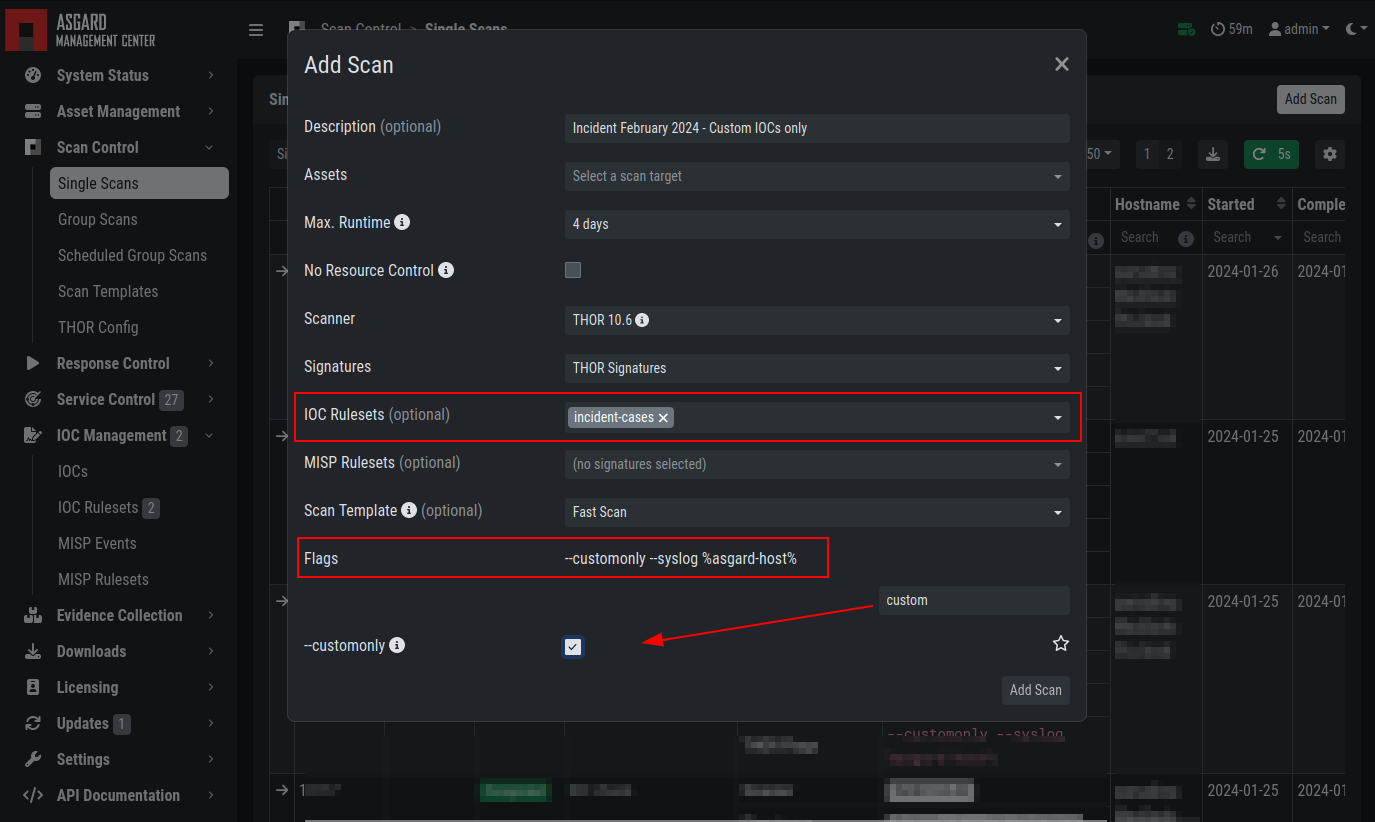
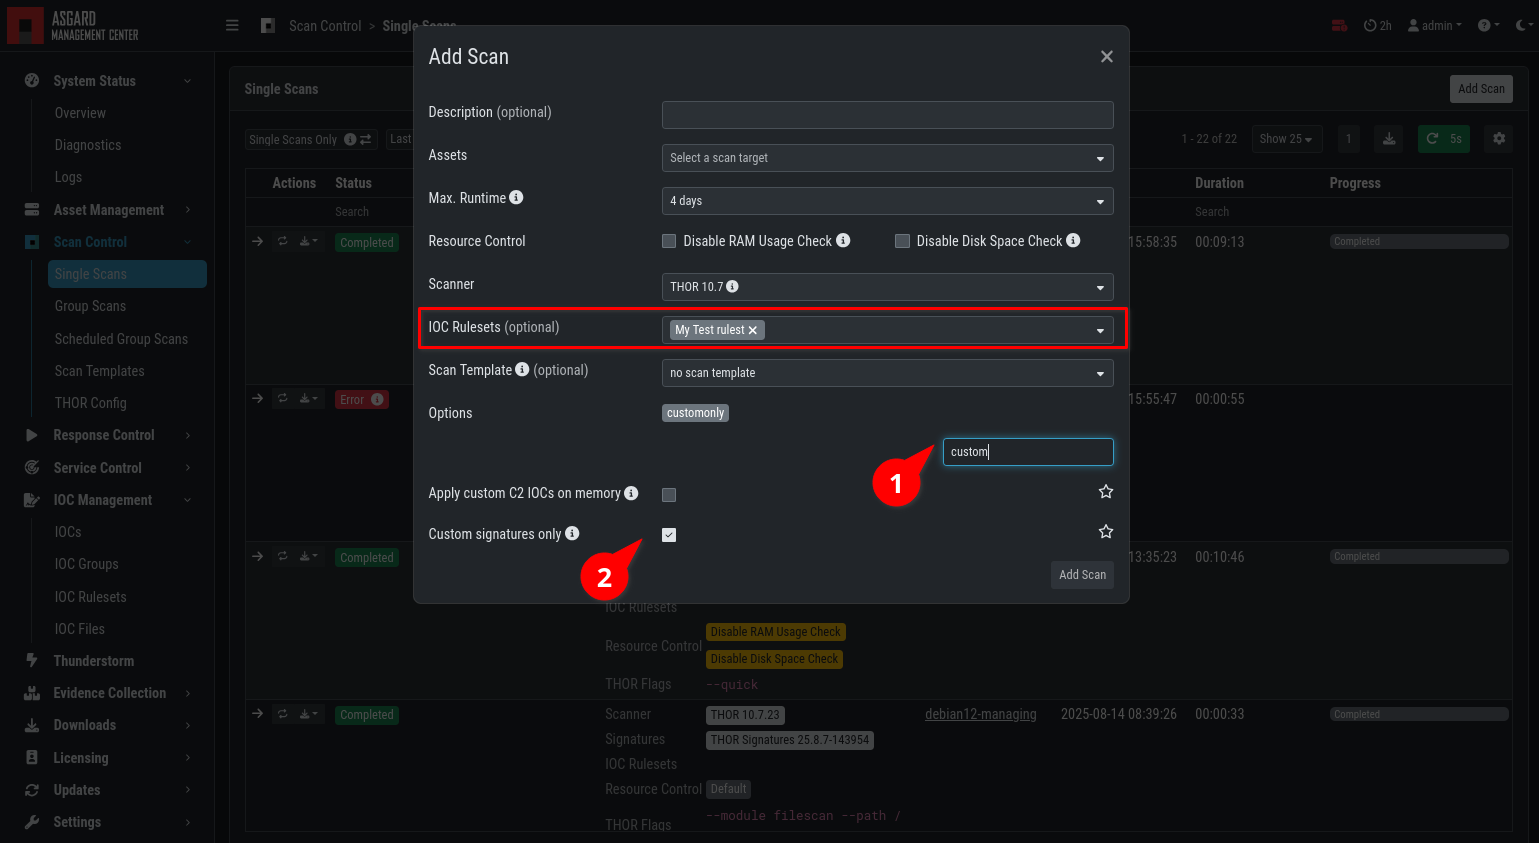
chore: update ioc and misp screenshots

diff --git a/administration/iocs.rst b/administration/iocs.rst
@@ -50,7 +50,7 @@ Once you created a IOC Ruleset which contains IOCs, it can be used for scanning 
 
 Anytime you add, remove or change IOCs within one of your IOC Groups,
 you have to recompile the IOC Ruleset. To do this, navigate to the
-``IOC Rulesets`` page and click the "gear" icon in the Ruleset's row.
+``IOC Rulesets`` page and click the "gear" icon (1) in the Ruleset's row.
 You can optionally set IOS Rulesets to "Autocompile".
 
 .. figure:: ../images/mc_compile-ioc-ruleset.png
@@ -76,7 +76,7 @@ custom ruleset, the default signatures would not be applied.
 
 .. note::
    To scan exclusively with the custom ruleset, the flag 
-   ``--customonly`` must be set. Please see
+   ``--customonly`` must be set (1,2). Please see
    `THOR Flags <https://thor-manual.nextron-systems.com/en/latest/usage/flags.html#feature-extras>`_
    for more information.
 
@@ -109,8 +109,8 @@ and the type of IOCs you want to use in this ruleset. By default, all
 types are selected, but there may be reasons for deselecting certain
 categories. For example, filename IOCs tend to cause false positives
 and may be deselected for that reason. The picture below shows the
-dialogue for adding a MISP ruleset. Enable ``Auto Compile`` in order
-to automatically compile new MISP events into the ruleset, when they arrive.
+dialogue for adding a MISP ruleset. Enable ``Apply Changes Automatically`` in order
+to compile new MISP events into the ruleset, when they arrive.
 
 .. figure:: ../images/mc_new-misp-ruleset.png
    :alt: Adding a new MISP ruleset
